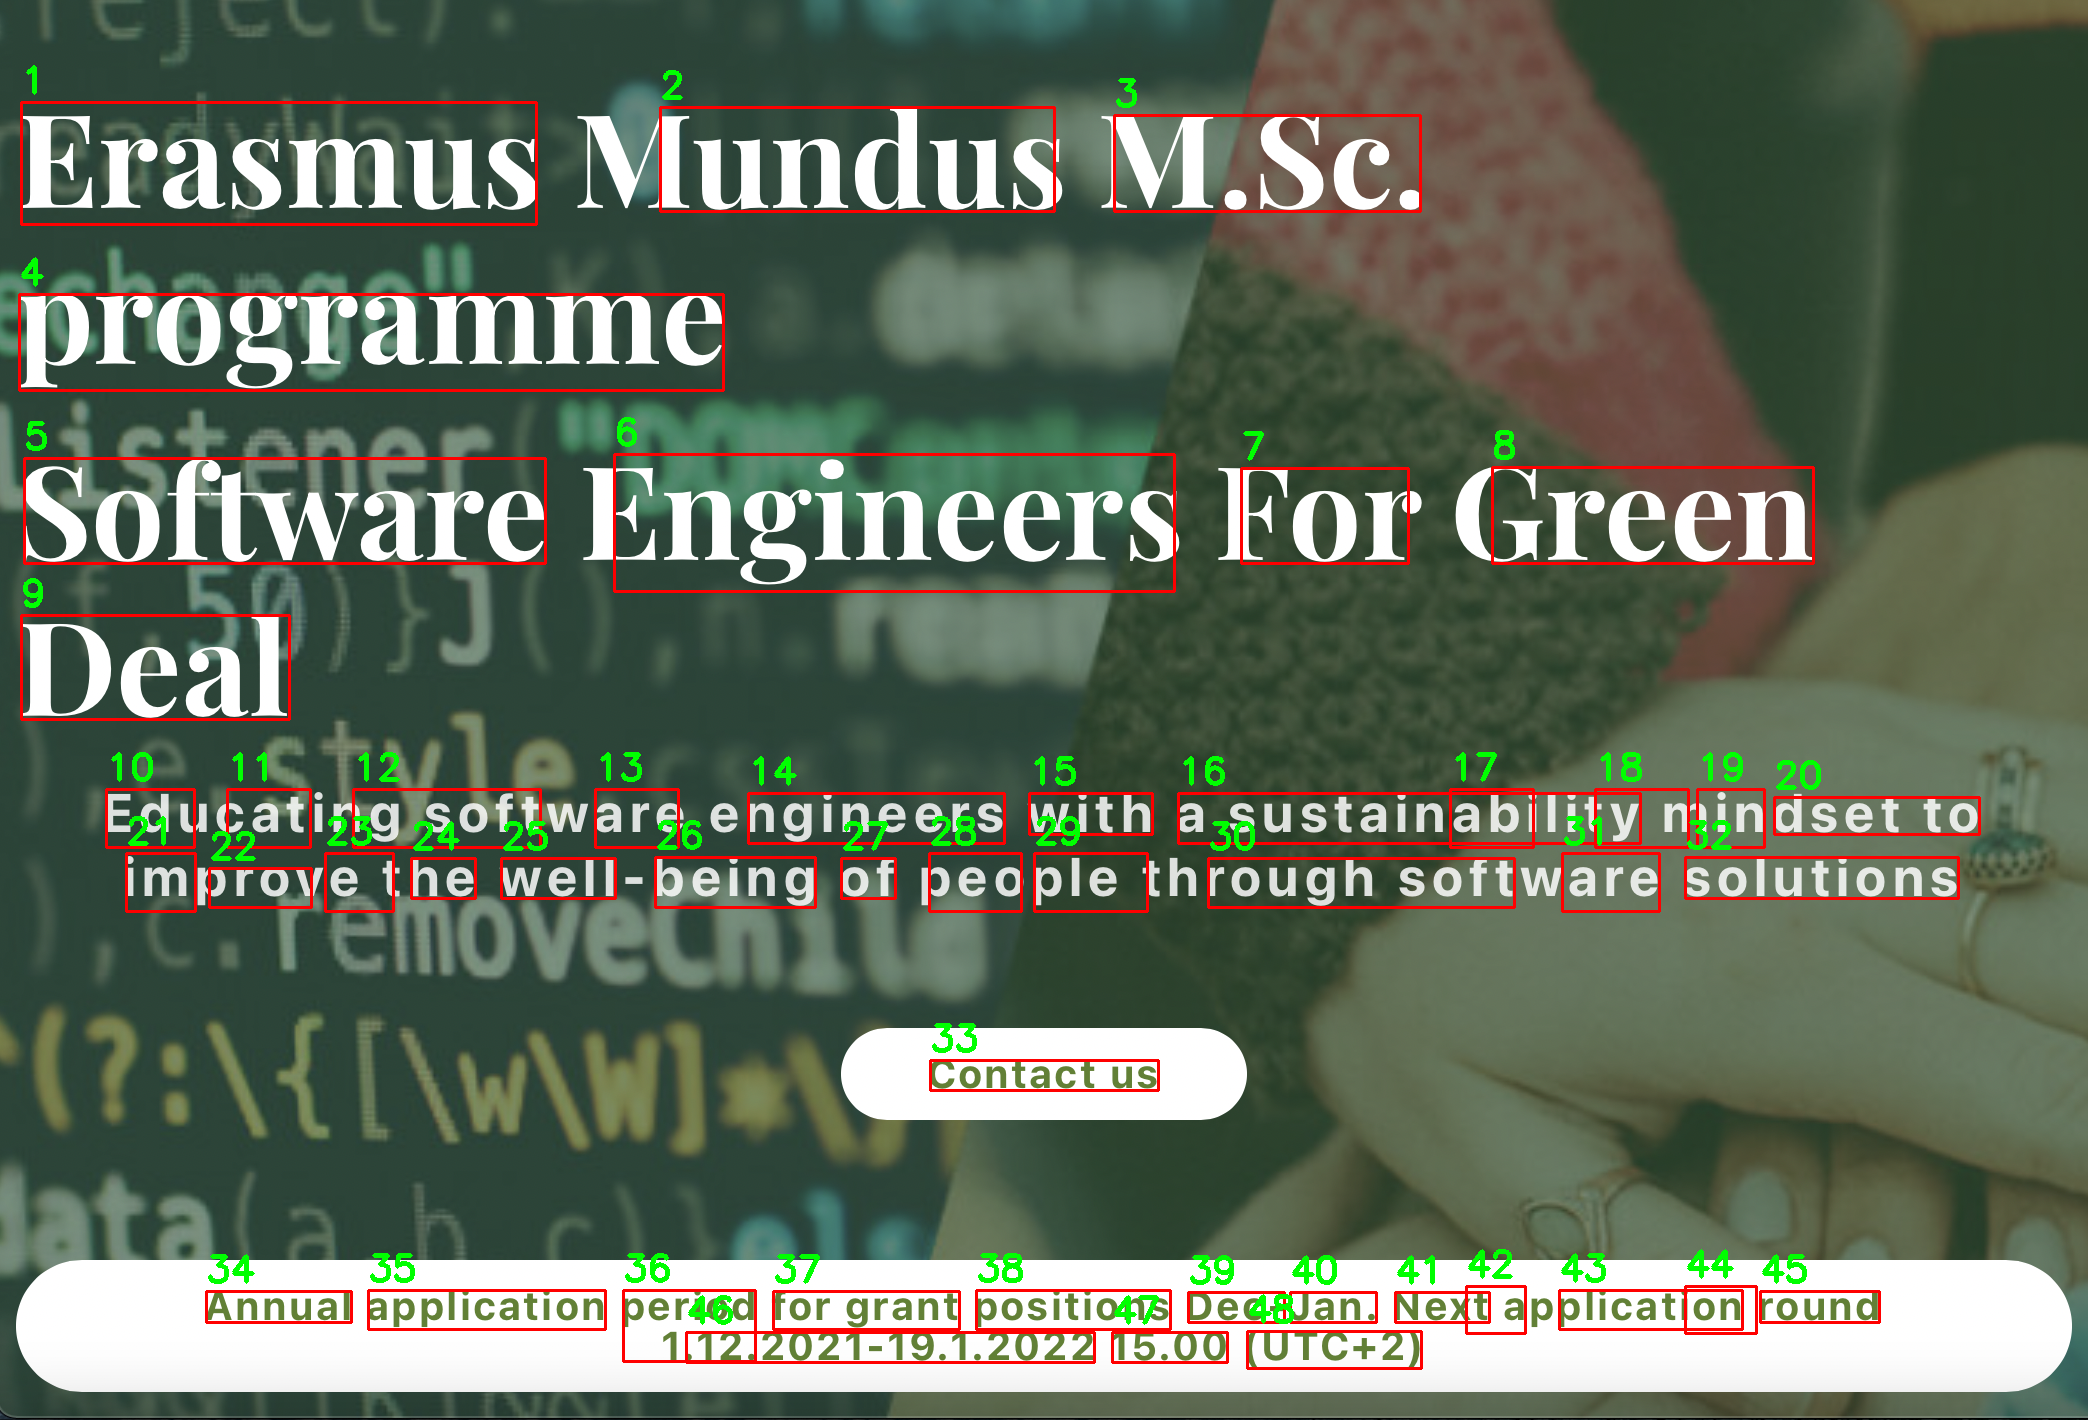
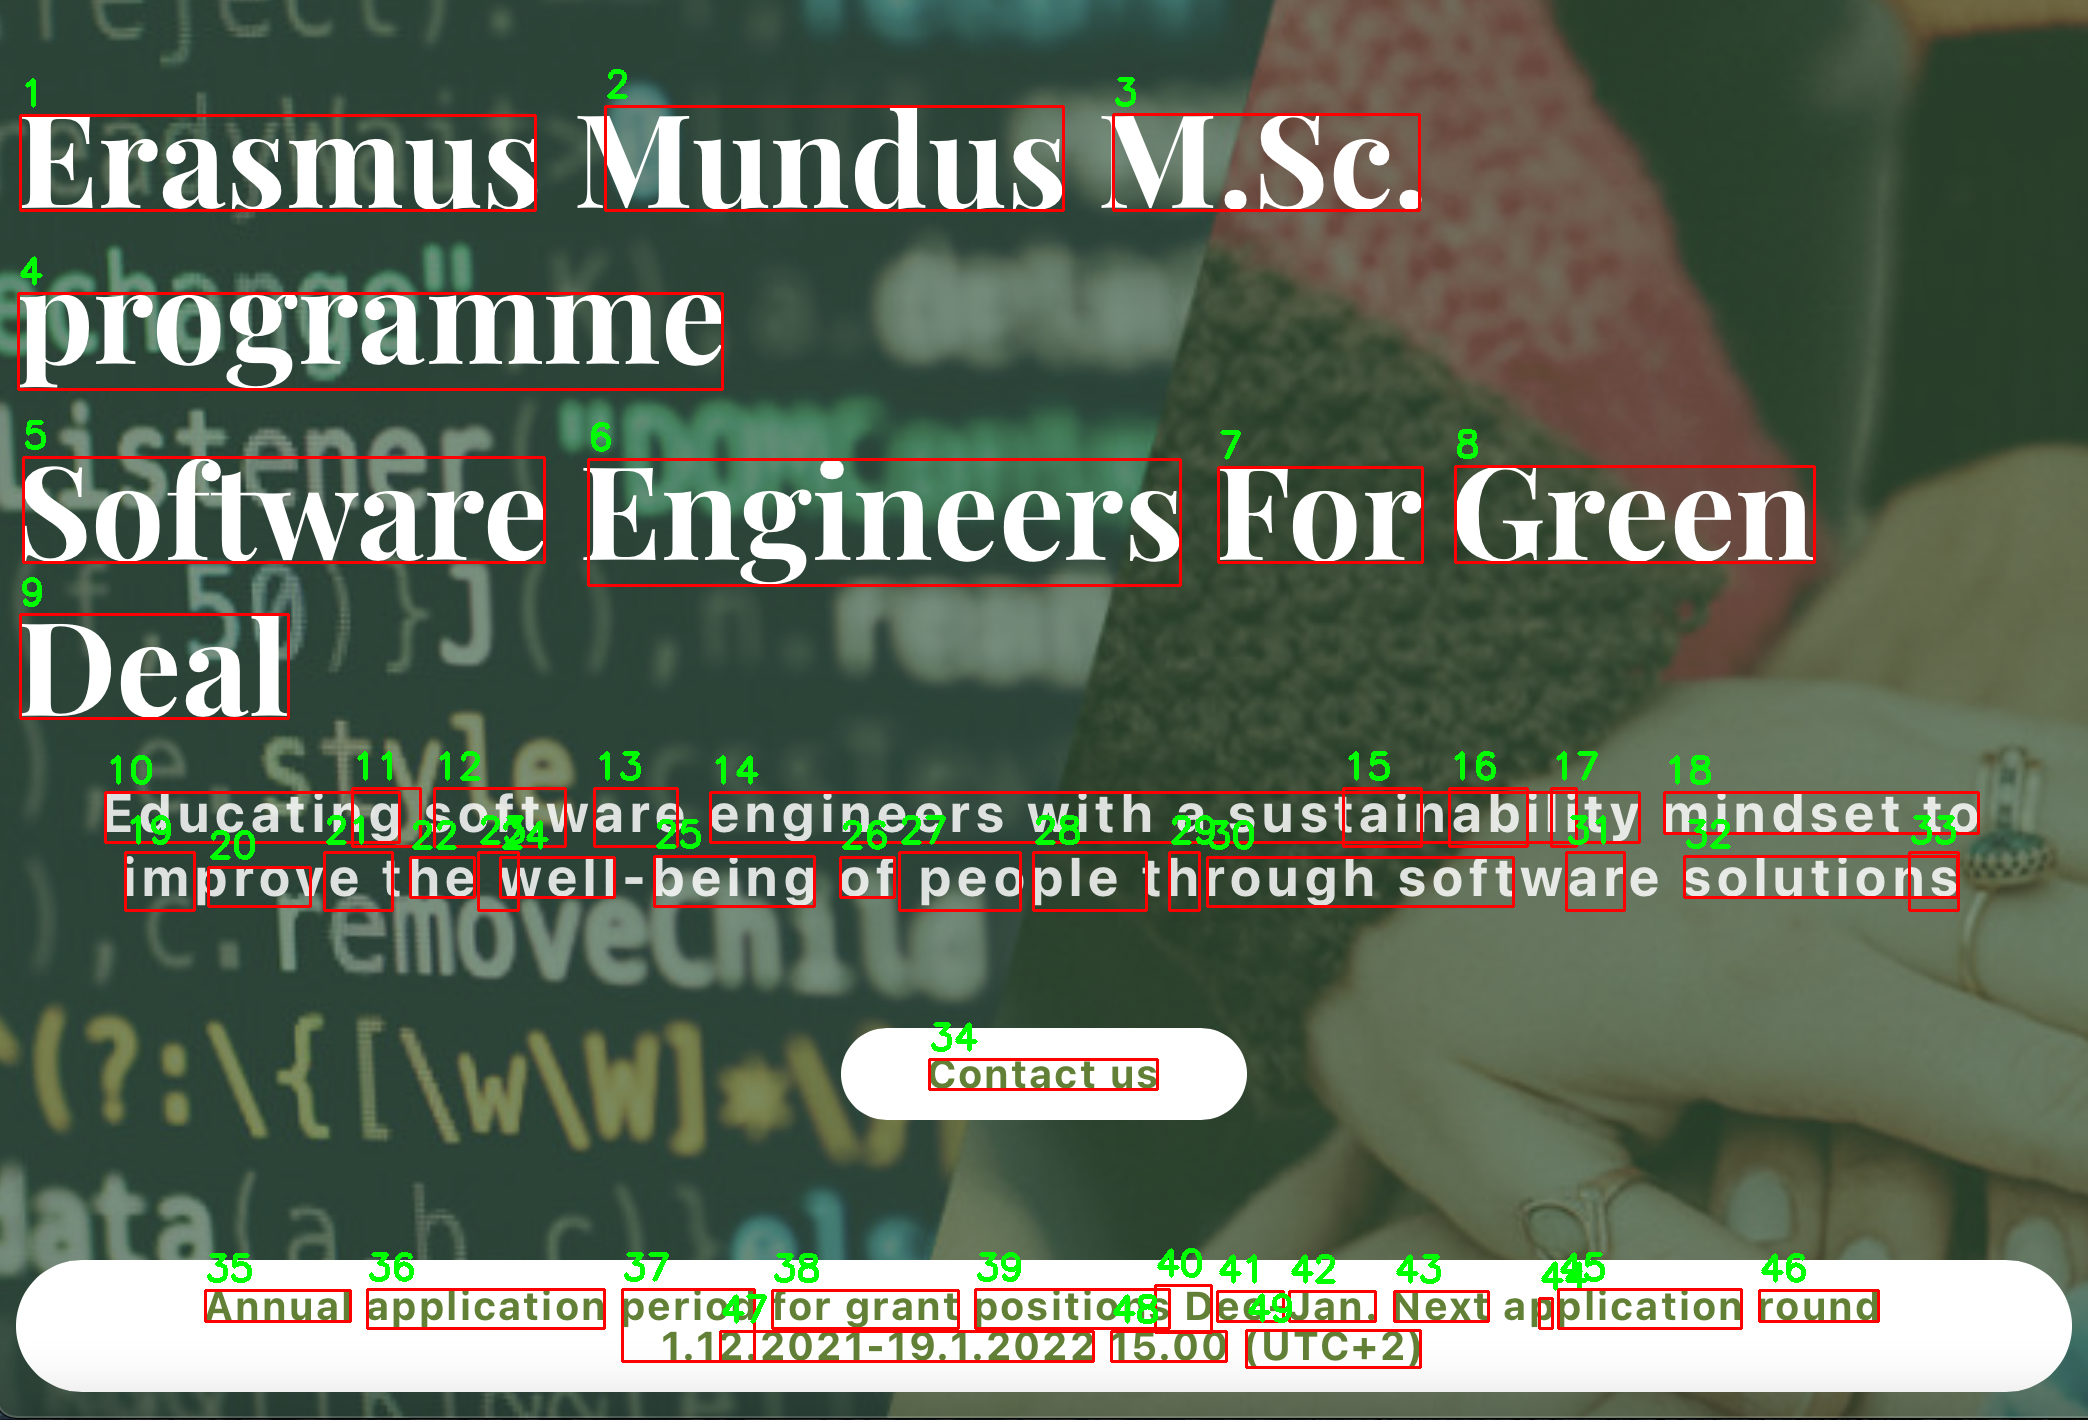
[45] Rajitha - Updated to access jpg images

diff --git a/img_process/process.py b/img_process/process.py
@@ -82,7 +82,7 @@ class ImageProcess():
         img_gray = cv2.bitwise_and(img_gray,img_gray, mask=mask)
         img_gray = cv2.GaussianBlur(img_gray,(3,3),cv2.BORDER_DEFAULT)
 
-        rect_kernel = cv2.getStructuringElement(cv2.MORPH_RECT, (2,2))
+        rect_kernel = cv2.getStructuringElement(cv2.MORPH_RECT, (1,1))
         edges = cv2.Canny(img_gray,180,255)
         edges = cv2.dilate(edges, rect_kernel, iterations = 1)
         edges = cv2.erode(edges, rect_kernel, iterations = 1)
@@ -95,7 +95,7 @@ class ImageProcess():
             text = results["text"][i]
             conf = int(float(results["conf"][i]))
 
-            if conf != -1 and len(text)>2 and text not in escape:
+            if conf != -1 and len(text)>0 and text not in escape:
                 num+=1
                 # extract the bounding box coordinates
                 # of the text region from  the current result

diff --git a/img_process/main.py b/img_process/main.py
@@ -10,10 +10,7 @@ def main():
            image_data =process.ImageProcess(img)
            json_output = image_data.detect_text(sys.argv[1])
            return checktext.calculation(json_output)
-<<<<<<< HEAD
            #return json_output
-=======
->>>>>>> 8ff4bc5739b9dd2856fe9060c51a53ecf824a317
 
     
 print(main())
